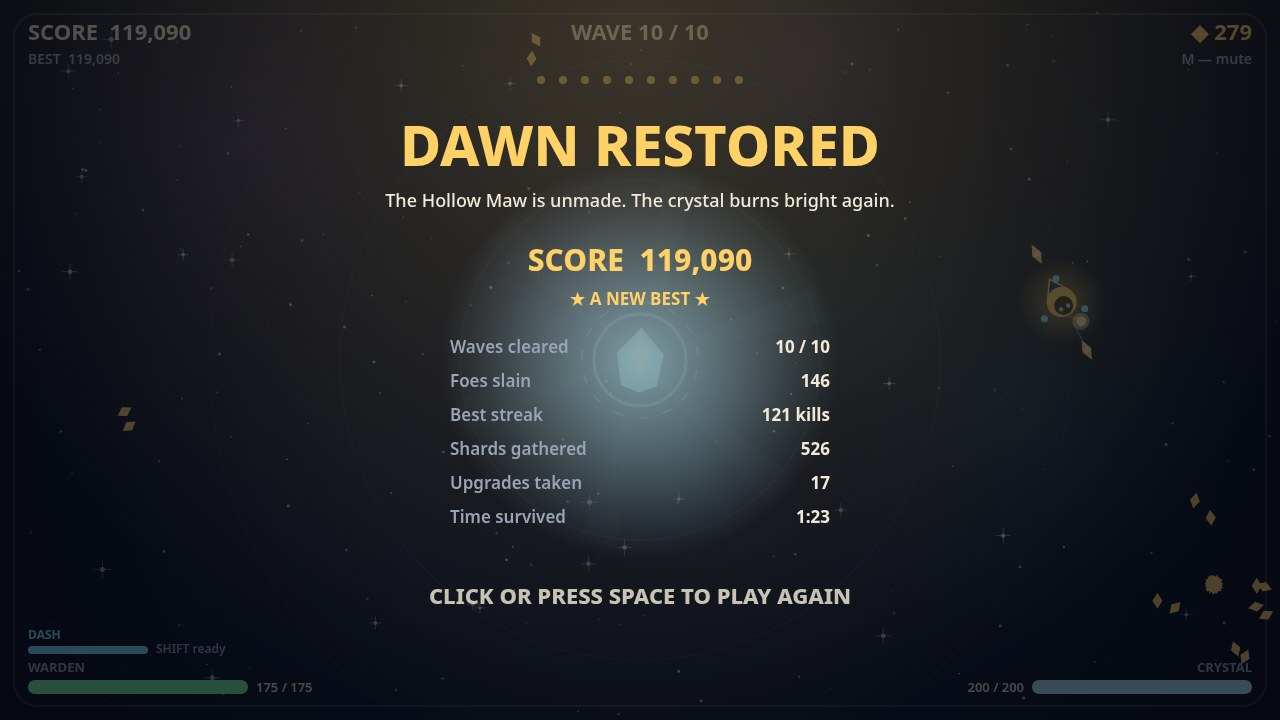
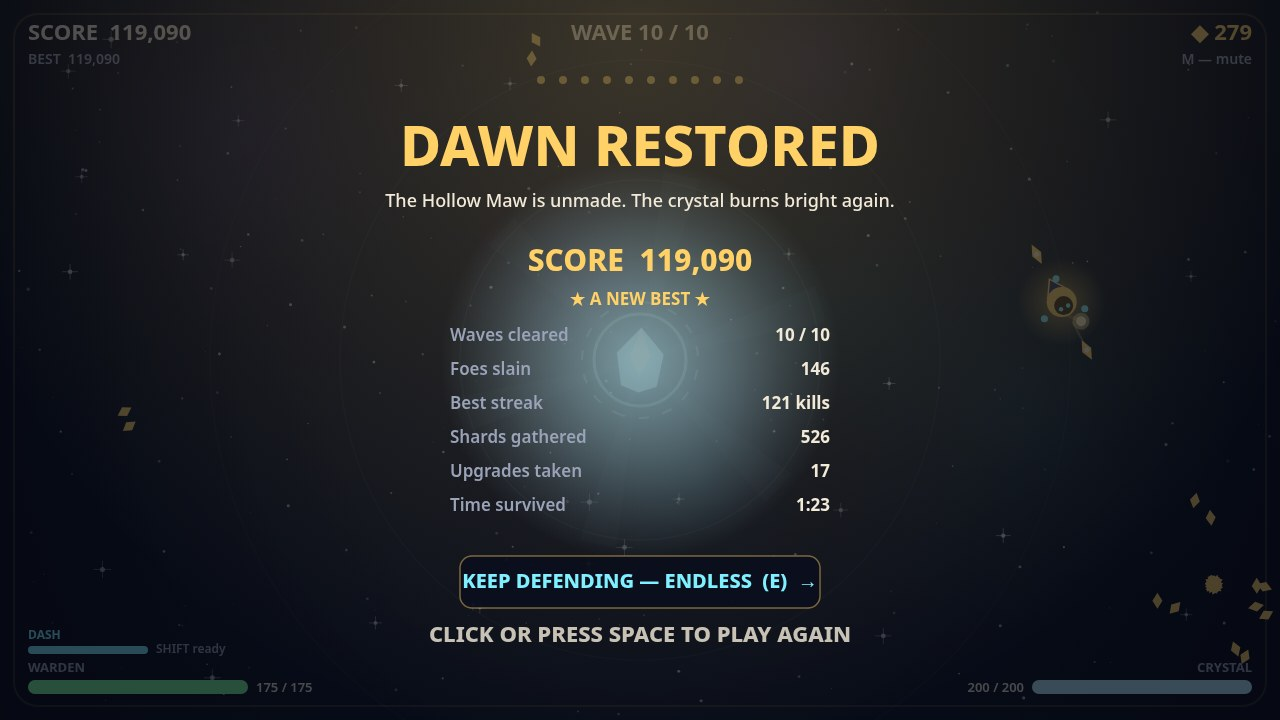
Endless mode + first-sighting warnings + gentler weaver introduction
- Victory unlocks Endless: keep defending past wave 10 (button or E key),
  waves scale up without another Maw; HUD shows WAVE n - ENDLESS; title
  mentions the unlock; endless waves verified in simulation (11-12 clear)
- New enemy kinds announce their trick on first sight (weaver shoots the
  crystal from afar, sunderling splits) so players learn the counter
- Weavers capped at 2 per wave in waves 6-7 while players learn them
- Balance after tuning: strong-build staging wins 3/3, fair autopilot 7/11

Changed region(s): [[0.3438, 0.7639, 0.6562, 0.9167], [0.3438, 0.4583, 0.4688, 0.7333], [0.5938, 0.4583, 0.6562, 0.7333]]

diff --git a/game/src/render.js b/game/src/render.js
@@ -36,6 +36,13 @@ export function shopLayout() {
   };
 }
 
+/** The victory screen's Endless button, shared by drawing and click tests. */
+export function winLayout() {
+  return {
+    endless: { x: FIELD.width / 2 - 180, y: 556, w: 360, h: 52 },
+  };
+}
+
 /** A starfield and nebula painted once, at boot, on an offscreen canvas. */
 function paintBackdrop() {
   const rng = createRandom(1337);
@@ -678,7 +685,10 @@ export function createRenderer(canvas) {
       bar(28, 102, 90, 6, state.comboTimer / COMBO.window, PALETTE.cyan);
     }
     // Top-center: the wave and what is left of it.
-    text(`WAVE ${Math.max(1, state.wave)} / ${WAVES}`, FIELD.width / 2, 34, 22, PALETTE.text, 'center', 700);
+    text(
+      state.wave > WAVES ? `WAVE ${state.wave} · ENDLESS` : `WAVE ${Math.max(1, state.wave)} / ${WAVES}`,
+      FIELD.width / 2, 34, 22, PALETTE.text, 'center', 700,
+    );
     if (state.phase === 'combat') {
       text(`${ui.enemiesLeft} foes remain`, FIELD.width / 2, 60, 14, PALETTE.muted, 'center', 600);
     }
@@ -785,7 +795,7 @@ export function createRenderer(canvas) {
       text(label, FIELD.width / 2 - 300, y, 17, PALETTE.gold, 'left', 700);
       text(value, FIELD.width / 2 + 300, y, 17, PALETTE.text, 'right', 500, FONT.body);
     });
-    text('Survive 10 waves. Spend shards on upgrades between waves.', FIELD.width / 2, 552, 17, PALETTE.muted, 'center', 500, FONT.body);
+    text('Survive 10 waves. Spend shards on upgrades between waves — win to unlock Endless.', FIELD.width / 2, 552, 17, PALETTE.muted, 'center', 500, FONT.body);
     if (ui.best > 0) text(`BEST SCORE  ${ui.best.toLocaleString('en-US')}`, FIELD.width / 2, 584, 17, PALETTE.gold, 'center', 700);
     const blink = 0.78 + Math.sin(state.time * 3) * 0.22;
     ctx.globalAlpha = blink;
@@ -838,8 +848,9 @@ export function createRenderer(canvas) {
     const minutes = Math.floor(state.runTime / 60);
     const seconds = Math.floor(state.runTime % 60);
     const upgrades = Object.values(state.owned).reduce((n, c) => n + c, 0);
+    const cleared = state.phase === 'won' ? WAVES : Math.max(0, state.wave - (state.phase === 'shop' ? 0 : 1));
     const rows = [
-      ['Waves cleared', `${state.phase === 'won' ? WAVES : Math.max(0, state.wave - (state.phase === 'shop' ? 0 : 1))} / ${WAVES}`],
+      ['Waves cleared', cleared > WAVES ? String(cleared) : `${cleared} / ${WAVES}`],
       ['Foes slain', String(state.kills)],
       ['Best streak', `${state.comboBest} kills`],
       ['Shards gathered', String(state.shardsCollected)],
@@ -894,10 +905,15 @@ export function createRenderer(canvas) {
     text('The Hollow Maw is unmade. The crystal burns bright again.', FIELD.width / 2, 202, 18, PALETTE.text, 'center', 500, FONT.body);
     text(`SCORE  ${state.score.toLocaleString('en-US')}`, FIELD.width / 2, 262, 30, PALETTE.gold, 'center', 800);
     if (state.score >= ui.best && state.score > 0) text('★ A NEW BEST ★', FIELD.width / 2, 300, 17, PALETTE.gold, 'center', 700);
-    const after = statsGrid(state, 348);
+    const after = statsGrid(state, 336);
+    // Victory unlocks Endless: the waves keep coming, harder each time, for
+    // as long as the warden holds. The button is the way in; Space restarts.
+    const layout = winLayout();
+    panel(layout.endless.x, layout.endless.y, layout.endless.w, layout.endless.h, 12);
+    text('KEEP DEFENDING — ENDLESS  (E)  →', FIELD.width / 2, layout.endless.y + layout.endless.h / 2, 20, PALETTE.cyan, 'center', 800);
     const blink = 0.78 + Math.sin(state.time * 3) * 0.22;
     ctx.globalAlpha = blink;
-    text('CLICK OR PRESS SPACE TO PLAY AGAIN', FIELD.width / 2, after + 46, 22, PALETTE.text, 'center', 800);
+    text('CLICK OR PRESS SPACE TO PLAY AGAIN', FIELD.width / 2, after + 96, 22, PALETTE.text, 'center', 800);
     ctx.globalAlpha = 1;
   }
 

diff --git a/game/src/main.js b/game/src/main.js
@@ -30,6 +30,7 @@ import {
   ACTION_BUY_3,
   ACTION_CONFIRM,
   ACTION_DASH,
+  ACTION_ENDLESS,
   ACTION_MUTE,
   ACTION_PAUSE,
   createInput,
@@ -44,6 +45,7 @@ import {
   SCREEN_WIN,
   createRenderer,
   shopLayout,
+  winLayout,
 } from './render.js';
 import { stageShot } from './shots.js';
 
@@ -145,6 +147,16 @@ function runGame() {
     announce(`Wave ${world.state.wave}.`);
   }
 
+  /** Victory unlocks Endless: the run continues past wave 10, harder each wave. */
+  function startEndless() {
+    audio.unlock();
+    audio.waveStart();
+    world.beginWave(world.state.wave + 1);
+    shopMessage = '';
+    screen = SCREEN_PLAY;
+    announce(`Endless. Wave ${world.state.wave}.`);
+  }
+
   function endRun(won) {
     if (world.state.score > best) {
       best = world.state.score;
@@ -192,8 +204,14 @@ function runGame() {
     const click = input.takeClick();
     if (actions & ACTION_MUTE) toggleMute();
     if (actions & ACTION_DASH) dashQueued = true;
-    if (screen === SCREEN_TITLE || screen === SCREEN_OVER || screen === SCREEN_WIN) {
+    if (screen === SCREEN_TITLE || screen === SCREEN_OVER) {
       if (actions & ACTION_CONFIRM) startGame();
+    } else if (screen === SCREEN_WIN) {
+      // A click on the Endless button (or E) keeps the run going past wave
+      // 10; any other confirm restarts from wave 1.
+      if (click && clickIn(winLayout().endless, click)) startEndless();
+      else if (actions & ACTION_ENDLESS) startEndless();
+      else if (actions & ACTION_CONFIRM) startGame();
     } else if (screen === SCREEN_PLAY) {
       if (actions & ACTION_PAUSE) {
         screen = SCREEN_PAUSED;

diff --git a/game/src/world.js b/game/src/world.js
@@ -81,6 +81,7 @@ export function createWorld(rng) {
     bossKind: null,
     bossAt: 0,
     bossSpawned: false,
+    warned: {},
     shopCards: [],
     owned: {},
     shake: 0,
@@ -158,6 +159,15 @@ export function createWorld(rng) {
   function spawnEnemy(kind, elite = false) {
     const at = spawnPoint(rng);
     state.enemies.push(makeEnemy(kind, at.x, at.y, elite));
+    // A new kind announces its trick the first time it appears, so the
+    // player learns the counter instead of losing the crystal to it.
+    if (kind === 'weaver' && !state.warned.weaver) {
+      state.warned.weaver = true;
+      floater(FIELD.width / 2, 150, 'A GLOOMWEAVER — IT SHOOTS THE CRYSTAL FROM AFAR', '#ff7ad9', 17);
+    } else if (kind === 'sunder' && !state.warned.sunder) {
+      state.warned.sunder = true;
+      floater(FIELD.width / 2, 150, 'A SUNDERLING — IT SPLITS INTO WISPS WHEN SLAIN', '#c86bff', 17);
+    }
   }
 
   function dropShards(x, y, count) {
@@ -774,6 +784,7 @@ export function createWorld(rng) {
       state.bossKind = null;
       state.bossAt = 0;
       state.bossSpawned = false;
+      state.warned = {};
       state.shopCards = [];
       state.owned = {};
       state.shake = 0;

diff --git a/game/src/enemies.js b/game/src/enemies.js
@@ -29,15 +29,21 @@ function budgetQueue(wave, rng) {
   const queue = [];
   let spent = 0;
   let at = 0.6;
+  // Weavers arrive gently: at most two while the player is still learning them.
+  let weavers = 0;
+  const weaverCap = wave <= 7 ? 2 : 99;
   while (spent < budget) {
-    const affordable = kinds.filter((kind) => COST[kind] <= budget - spent);
+    let affordable = kinds.filter((kind) => COST[kind] <= budget - spent);
+    if (weavers >= weaverCap) affordable = affordable.filter((kind) => kind !== 'weaver');
     const kind = rng.pick(affordable);
+    if (kind === 'weaver') weavers += 1;
     spent += COST[kind];
     queue.push({ kind, at, elite: maybeElite(wave, rng) });
     // Later waves spawn faster and in small clusters.
     at += rng.range(0.55, 1.15) * Math.max(0.45, 1 - wave * 0.05);
     if (rng.chance(0.25)) {
       queue.push({ kind, at: at + 0.15, elite: maybeElite(wave, rng) });
+      if (kind === 'weaver') weavers += 1;
       spent += COST[kind];
     }
   }

diff --git a/game/src/input.js b/game/src/input.js
@@ -12,6 +12,7 @@ export const ACTION_BUY_1 = 1 << 3;
 export const ACTION_BUY_2 = 1 << 4;
 export const ACTION_BUY_3 = 1 << 5;
 export const ACTION_DASH = 1 << 6;
+export const ACTION_ENDLESS = 1 << 7;
 
 /** Keys the game owns: their browser defaults (scrolling, find) are suppressed. */
 const HANDLED = new Set(['Space', 'ArrowUp', 'ArrowDown', 'ArrowLeft', 'ArrowRight', 'KeyW', 'KeyA', 'KeyS', 'KeyD']);
@@ -37,6 +38,7 @@ export function createInput(canvas) {
     if (event.code === 'Space' || event.code === 'Enter') actions |= ACTION_CONFIRM;
     else if (event.code === 'KeyP' || event.code === 'Escape') actions |= ACTION_PAUSE;
     else if (event.code === 'KeyM') actions |= ACTION_MUTE;
+    else if (event.code === 'KeyE') actions |= ACTION_ENDLESS;
     else if (event.code === 'ShiftLeft' || event.code === 'ShiftRight') actions |= ACTION_DASH;
     else if (event.code === 'Digit1') actions |= ACTION_BUY_1;
     else if (event.code === 'Digit2') actions |= ACTION_BUY_2;
